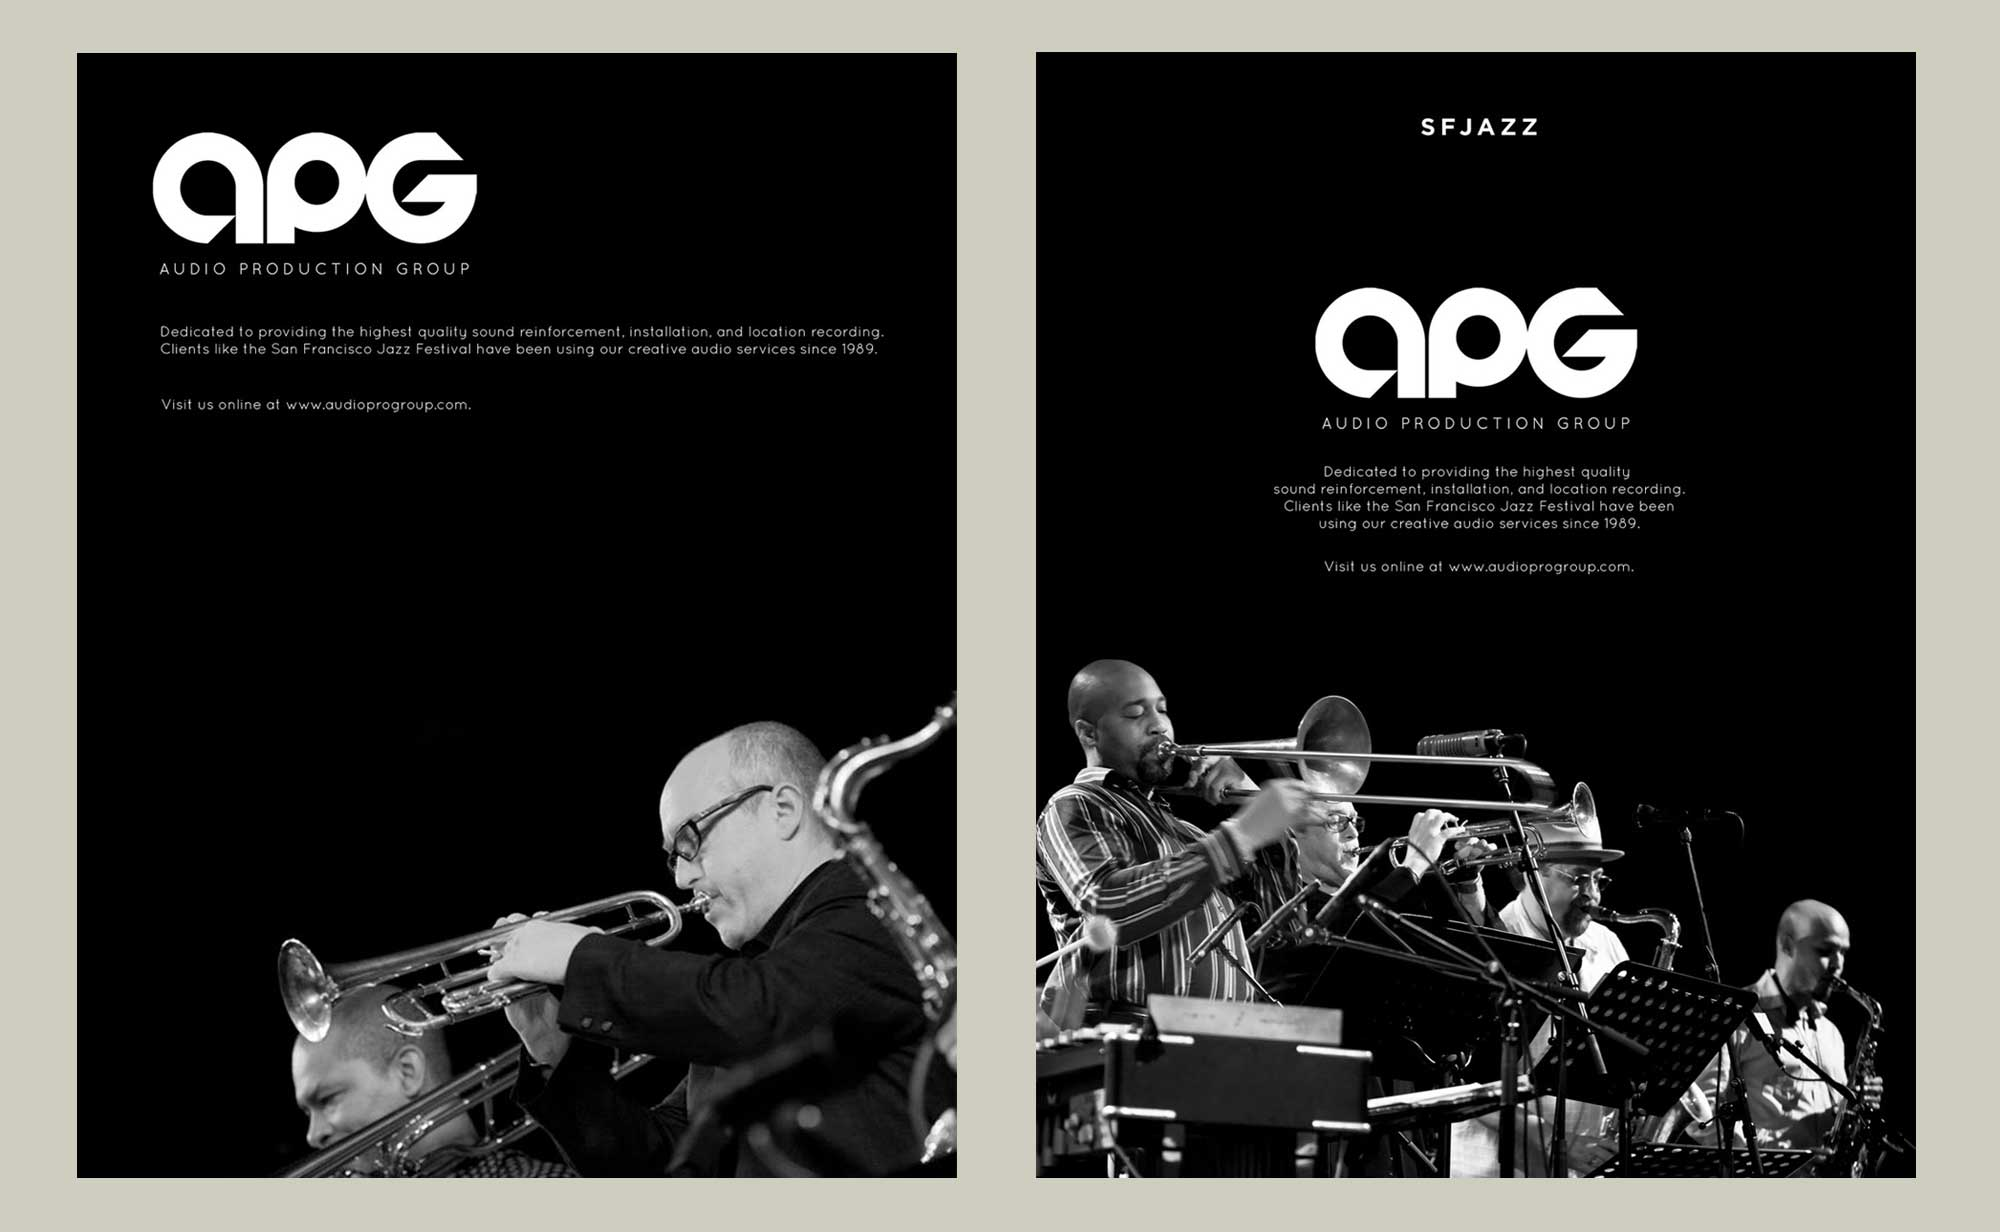
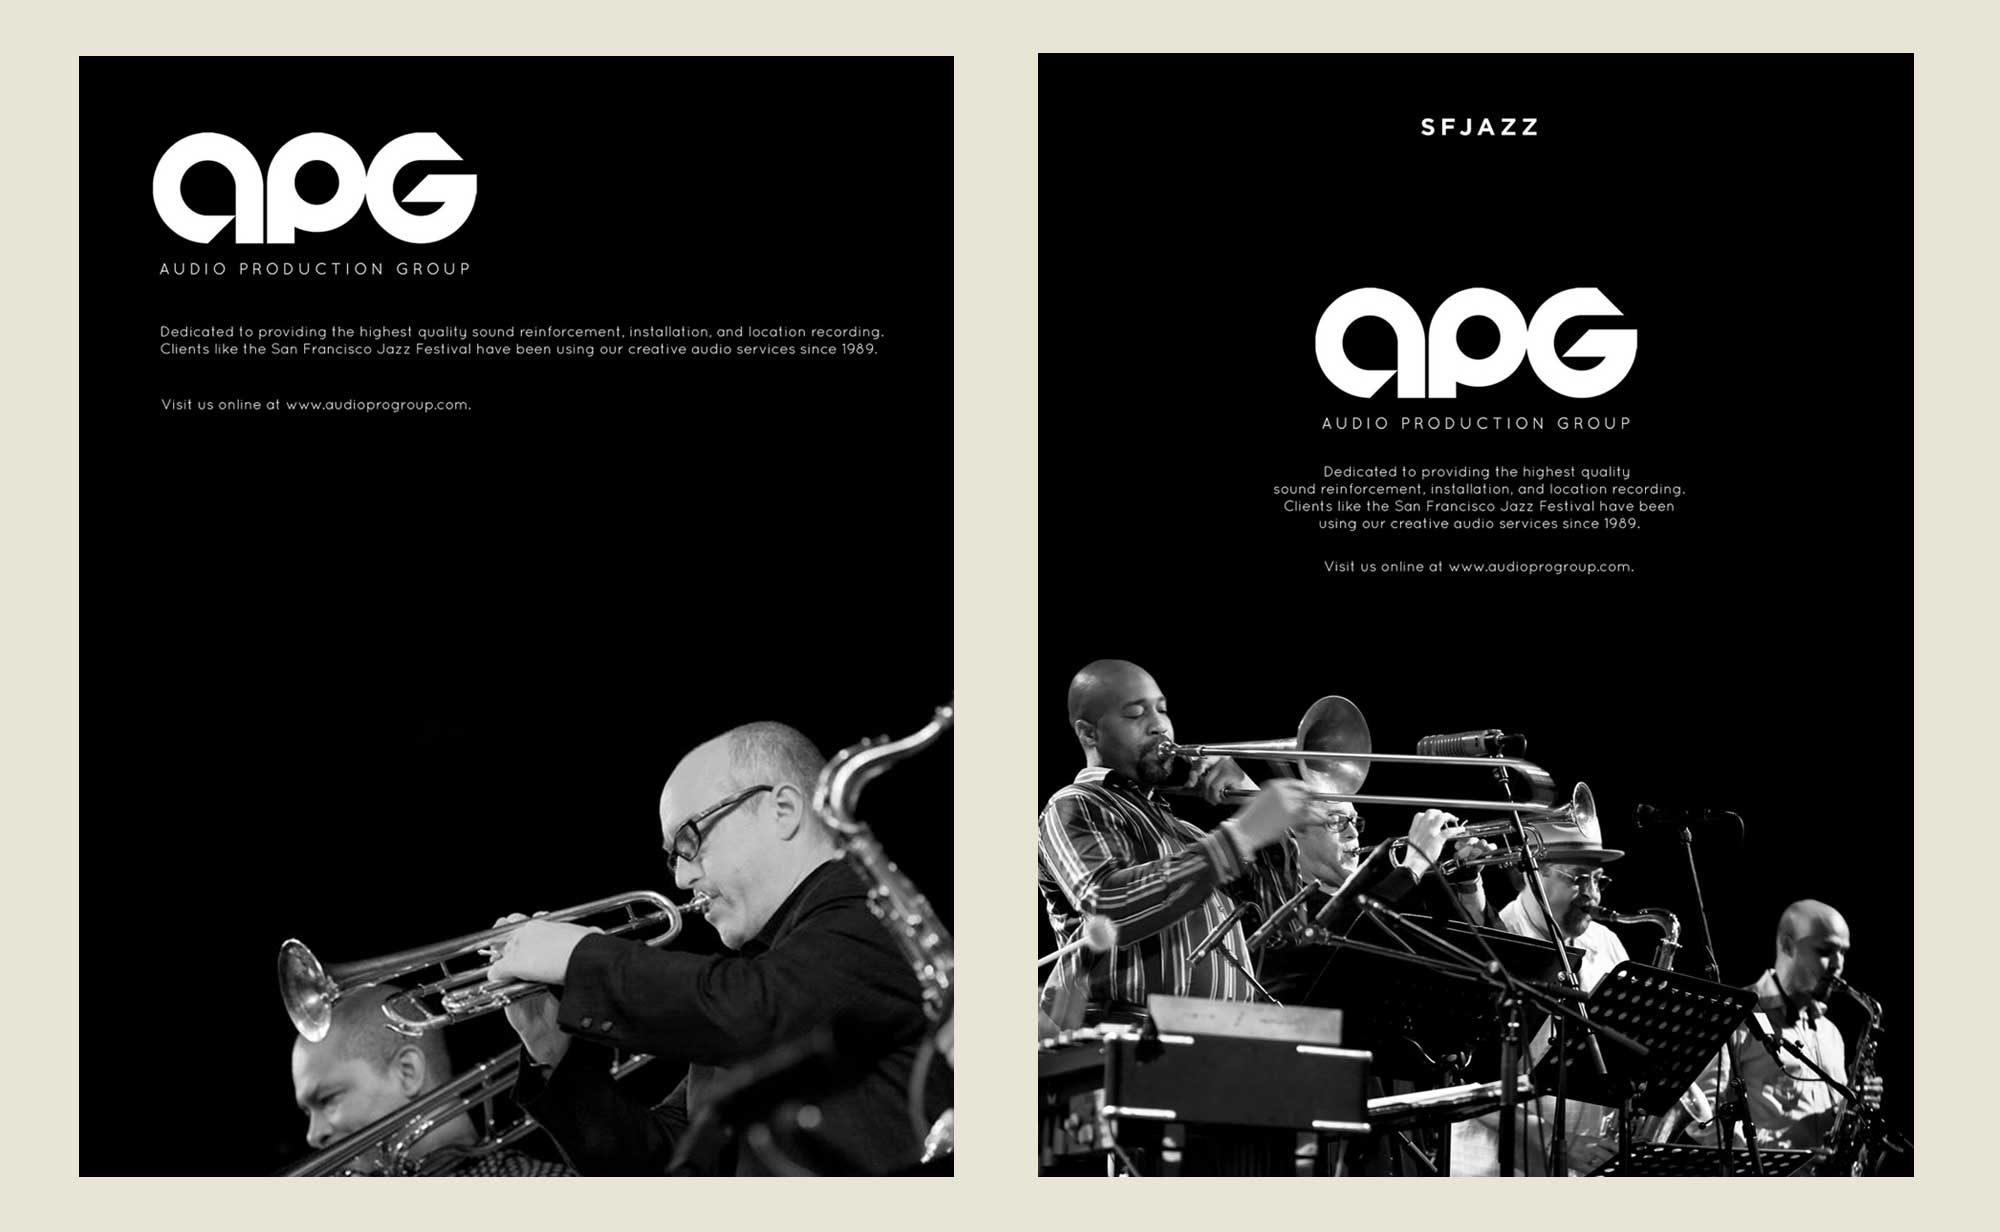
red bg

Changed region(s): [[0.031, 0.0308, 0.961, 0.987]]

diff --git a/onedegreebrand.html b/onedegreebrand.html
@@ -24,11 +24,15 @@
 			</div>
 		</div>
 	</div>
-	<div id="container">
-		<div class="problem">
-			<p>What's the need?</p>
-			<h6 class="header-black">One Degree's first logo was a wordmark in english that was hard to read</h6>
-		</div>
+	<div class="desc-container">
+		<h2 class="center">Need</h2>
+		<h6 class="header-black">One Degree's original logo was a wordmark in cursive that was hard to read</h6>
+		<p>Lorem ipsum dolor sit amet, consectetur adipiscing elit, sed do eiusmod tempor incididunt ut labore et dolore magna aliqua. Ut enim ad minim veniam, quis nostrud exercitation ullamco laboris nisi ut aliquip ex ea commodo consequat.</p>
+		<p>1. Families searching for below-market housing</p>
+		<p>2. Social workers searching and tracking applications for their clients</p>
+		<p>3. Property owners listing their units and applications</p>
+	</div>
+	<div class="process-container">
 		<h2 class="center">PROCESS</h2>
 		<div class="row half-row">
 			<div class="item half-img">	

diff --git a/css/style.css b/css/style.css
@@ -35,6 +35,12 @@ body {
 	color: #FFC500;
 }
 
+.interior-site-white {
+	margin: 0 auto 30px auto;
+	font-size: 24px;
+	color: #fff;
+}
+
 #home {
 	align-self: flex-start;
 	font-family: georgia;
@@ -104,19 +110,19 @@ iframe {
 }
 
 .fanbridge {
-	background-color: #f4f4f4;
+	background-color: #942e34;
 }
 
 .fanbridge h6 {
-	color: #b11110;
+	color: #fff;
 }
 
 .fanbridge p {
-	color: #b11110;
+	color: #fff;
 }
 
 .apg {
-	background-color: #cfcdc1;
+	background-color: #e8e5d3;
 }
 
 .apg h6 {
@@ -167,7 +173,7 @@ iframe {
 }
 
 .desc-container {
-	max-width: 600px;
+	max-width: 580px;
 	width: 90%;
 	margin: 0 auto;
 	overflow: hidden;

diff --git a/kscu.html b/kscu.html
@@ -12,7 +12,7 @@
 <body>
 	<div class="clear"></div>
 	<div id="header" class="kscu">
-		<a href="index.html"><h1 class="interior-site">Eric Mack Johnson</h1></a>
+		<a href="index.html"><h1 class="interior-site-white">Eric Mack Johnson</h1></a>
 		<div id="container">
 				<div class="page-header">
 					<h6>A rising indepedent radio station</h6>

diff --git a/fanbridge.html b/fanbridge.html
@@ -12,7 +12,7 @@
 <body>
 	<div class="clear"></div>
 	<div id="header" class="fanbridge">
-		<a href="index.html"><h1 class="interior-site">Eric Mack Johnson</h1></a>
+		<a href="index.html"><h1 class="interior-site-white">Eric Mack Johnson</h1></a>
 		<div id="container">
 				<div class="page-header">
 					<h6>Fan pages for the stars</h6>
